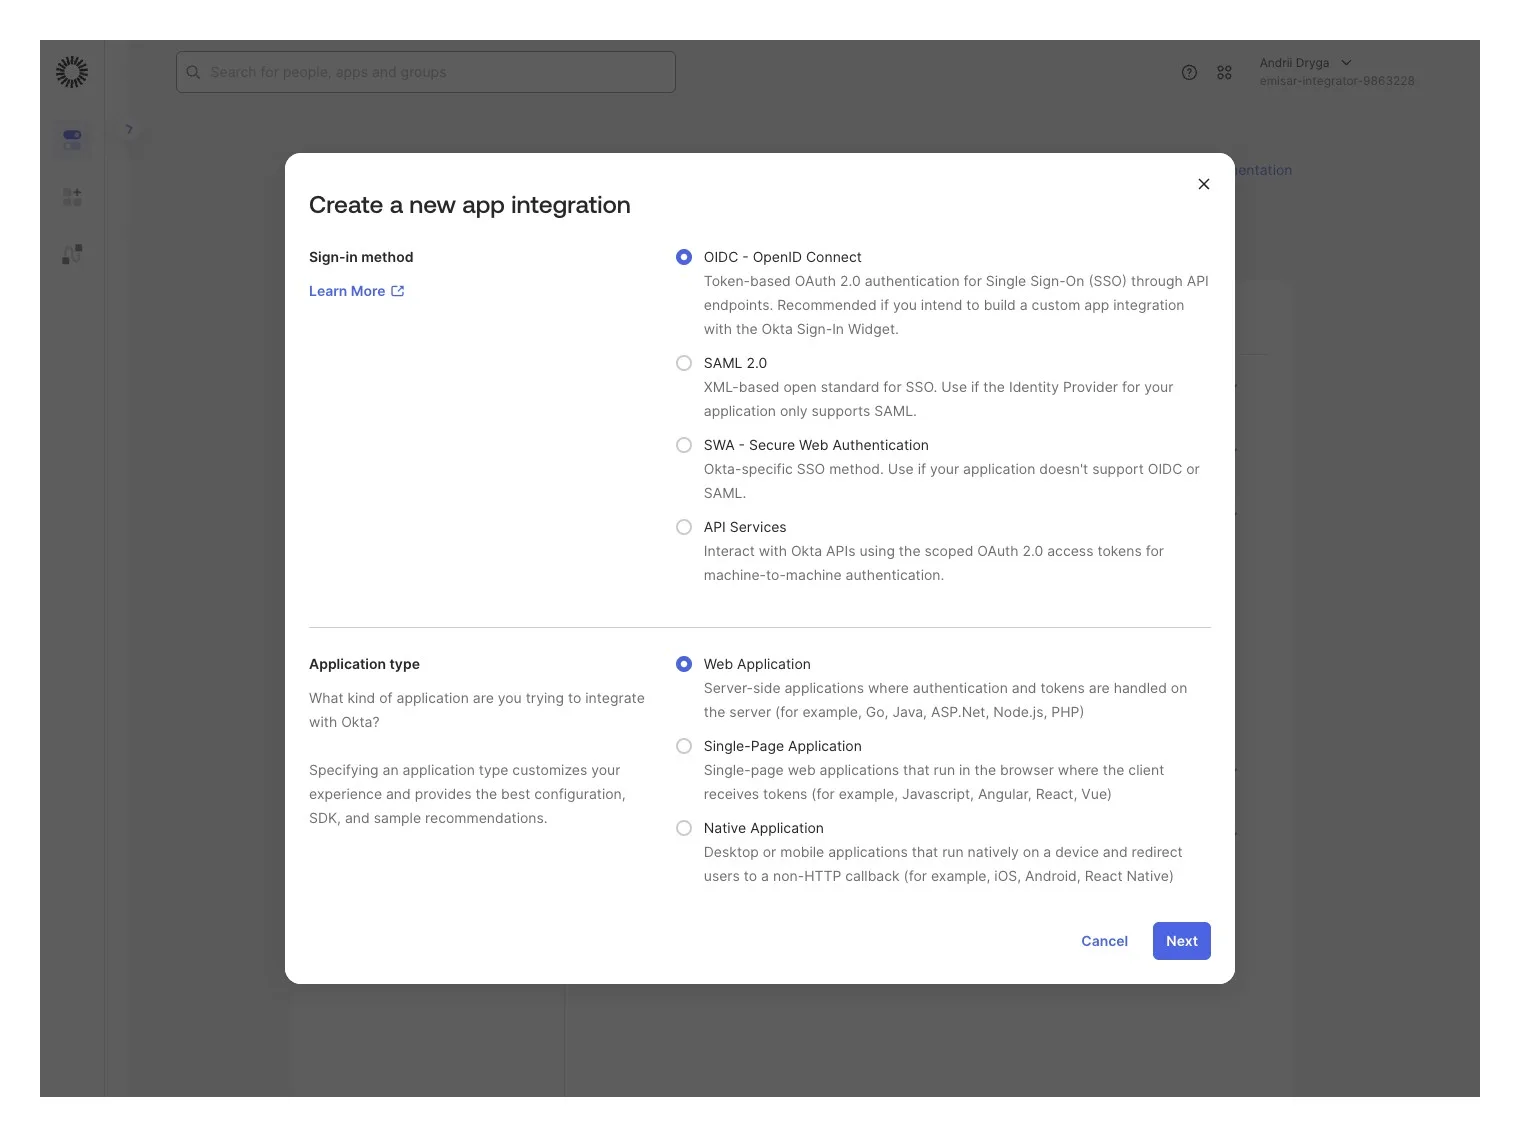
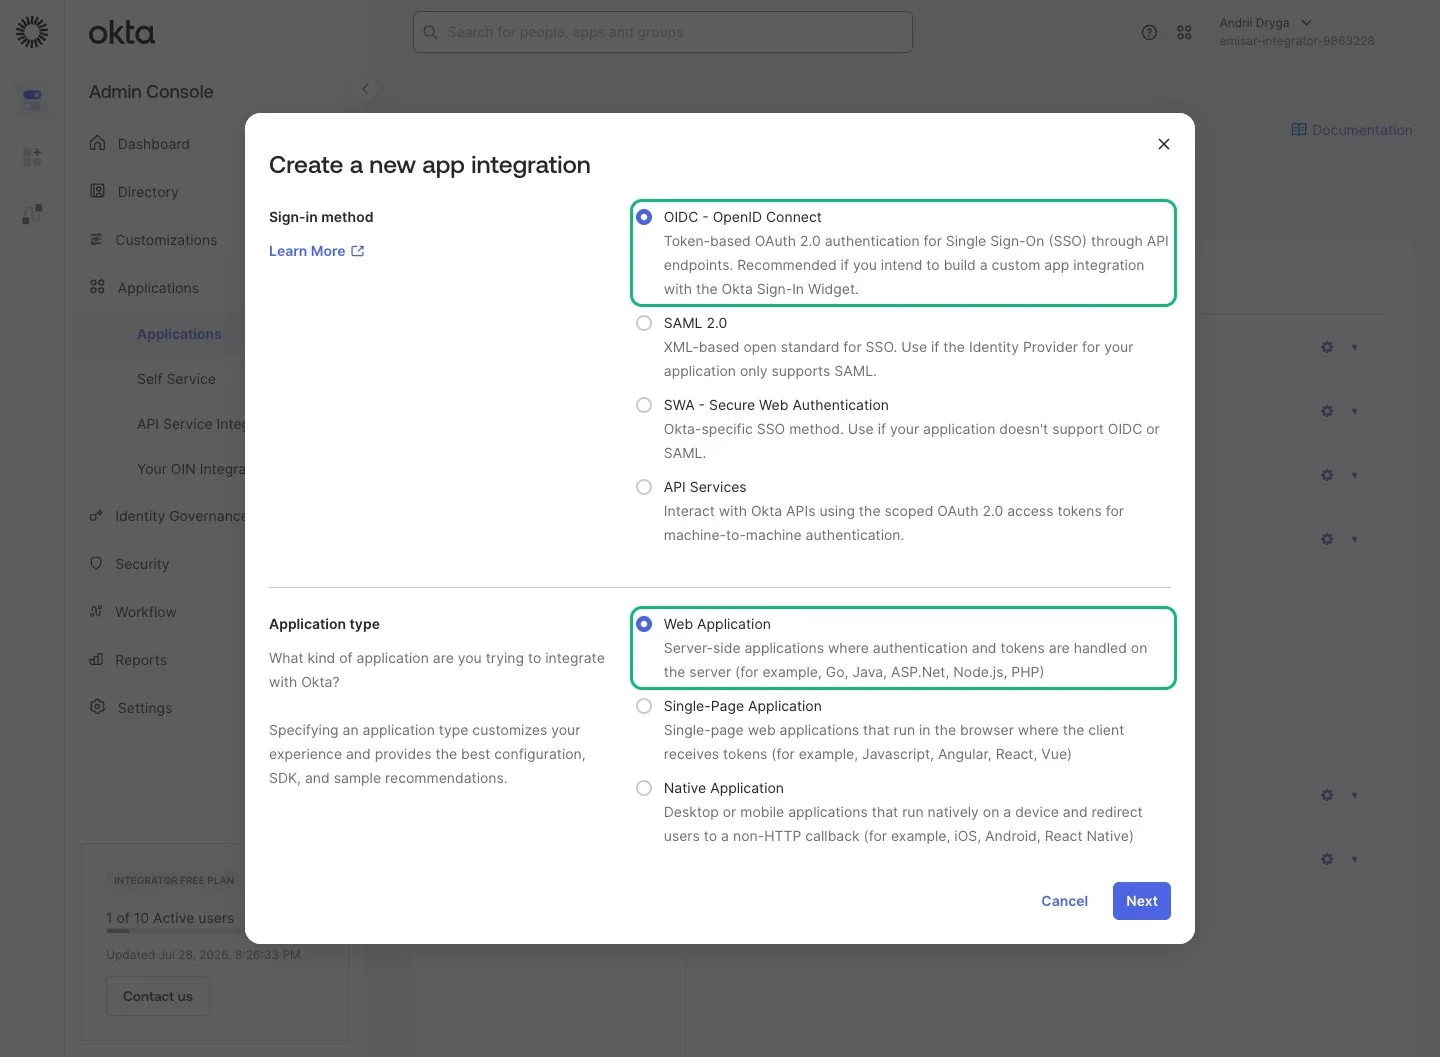
Outline what each Okta OIDC step is actually about
The three OIDC screenshots had no highlights at all. The right options
were selected, but nothing told the reader where to look on a dialog of
eight near-identical rows or a form of a dozen fields.

Each shot now boxes the whole labelled area its step talks about, not the
label: the chosen option together with its help text, the Grant type
block, the redirect row including the field it fills, the Client ID with
its description, and the secrets table. The settings between the last two
— Client authentication and PKCE — stay deliberately outside both boxes,
because that step tells the reader to leave them alone.

The flow also stops littering the org. It used to press Save, minting
another "emisar" integration on every capture run; nothing in these three
shots needs a freshly created app, so it Cancels and takes the
credentials shot from the app that already exists.

Three bugs found by looking at the renders rather than trusting a true:
the redirect outline wrapped the whole page because an <input> value is
not in textContent and the climb never matched (now "Add URI"); both
credentials highlights ran while the page was still painting and returned
false against a screenshot that looked merely un-highlighted (now gated
on waitForText, and a miss is an error); and the secrets box swallowed
the two settings above it (now anchored inside the block).

Adds -flow, because OKTA_FLOW is read from the secrets file and exporting
it in the shell silently took the other branch.
[…]

diff --git a/tools/cmd/okta-capture/main.go b/tools/cmd/okta-capture/main.go
@@ -87,11 +87,14 @@ func submitPasscode(code string) string {
 }
 
 func main() {
-	var secretsPath, outDir, only string
+	var secretsPath, outDir, only, flow string
 	var headless bool
 	flag.StringVar(&secretsPath, "secrets", "portal/.agent/secrets/okta-integrator.env", "creds env file")
 	flag.StringVar(&outDir, "out", "", "directory for captured PNGs")
 	flag.StringVar(&only, "only", "", "comma-separated screen names (default: all)")
+	// The flow otherwise comes from OKTA_FLOW in the secrets FILE, so exporting it
+	// in the shell silently did nothing and the run took the other branch.
+	flag.StringVar(&flow, "flow", "", `which walkthrough to capture ("oidc"; default: provisioning)`)
 	flag.BoolVar(&headless, "headless", true, "run Chrome headless")
 	flag.Parse()
 
@@ -102,6 +105,9 @@ func main() {
 	env, err := readEnv(secretsPath)
 	if err != nil {
 		fail(err)
+	}
+	if flow != "" {
+		env["OKTA_FLOW"] = flow
 	}
 	if err := run(env, outDir, only, headless); err != nil {
 		fail(err)
@@ -974,6 +980,79 @@ func tickEnableAPIIntegration(ctx context.Context) error {
 // oidcFlow captures the sign-in half: a confidential OIDC web app whose only
 // redirect URI is emisar's callback. Separate from the SCIM app by necessity —
 // Okta won't put provisioning on an OIDC integration.
+// oidcCredentialsShot photographs the two values the operator carries back to
+// emisar, on the OIDC app that is already there. Kept separate from the creation
+// walkthrough above precisely so the walkthrough can cancel: nothing in this
+// capture needs a freshly minted app, and minting one per run littered the org.
+func oidcCredentialsShot(
+	ctx context.Context,
+	env map[string]string,
+	shoot func(string) error,
+	settle func(int) error,
+) error {
+	if err := chromedp.Run(ctx, chromedp.Navigate(env["OKTA_ADMIN_URL"]+"/admin/apps/active")); err != nil {
+		return err
+	}
+	if err := settle(8); err != nil {
+		return err
+	}
+	if err := clearMFA(ctx, env); err != nil {
+		return err
+	}
+	// Wait for the list to paint before clicking into it — the click otherwise
+	// lands on nothing and the failure only surfaces two steps later.
+	listed, err := waitForText(ctx, "emisar", 10)
+	if err != nil {
+		return err
+	}
+	if !listed {
+		_ = reportPage(ctx)
+		return fmt.Errorf("the applications list never rendered")
+	}
+	// The OIDC app is named "emisar"; the SCIM one is "SCIM 2.0 Test App (Header
+	// Auth)", so an exact-text match cannot pick the wrong one.
+	opened, err := clickText(ctx, "emisar")
+	if err != nil {
+		return err
+	}
+	if !opened {
+		_ = reportPage(ctx)
+		return fmt.Errorf("no OIDC app named %q in the applications list", "emisar")
+	}
+	if err := settle(8); err != nil {
+		return err
+	}
+	if err := clearMFA(ctx, env); err != nil {
+		return err
+	}
+	// Wait for the card, do not guess at a settle: the first run highlighted
+	// nothing because both lookups ran while the app page was still painting,
+	// then the screenshot caught it fully loaded and looked simply un-highlighted.
+	shown, err := waitForText(ctx, "Client Credentials", 10)
+	if err != nil {
+		return err
+	}
+	if !shown {
+		return fmt.Errorf("the app's Client Credentials card never rendered")
+	}
+	// Box what the step says to copy — the id with its help text, and the secrets
+	// table — rather than the whole Client Credentials card, which would swallow
+	// the settings the reader must NOT touch.
+	if err := highlightGroup(ctx, "Client ID", "required for all"); err != nil {
+		return err
+	}
+	// Anchor INSIDE the secrets block, not on its heading: climbing from the
+	// heading reached a container that also held Client authentication and PKCE —
+	// the two settings this step tells the reader to leave alone.
+	if err := highlightGroup(ctx, "Generate new secret", "Creation date"); err != nil {
+		return err
+	}
+	if err := shoot("oidc-04-client-credentials"); err != nil {
+		return err
+	}
+	return reportPage(ctx)
+}
+
 func oidcFlow(
 	ctx context.Context,
 	env map[string]string,
@@ -1004,7 +1083,15 @@ func oidcFlow(
 		return err
 	}
 	// Shot AFTER both radios are set — a blank dialog doesn't show the reader
-	// which options to pick, which is the whole point of this screen.
+	// which options to pick, which is the whole point of this screen. Box each
+	// chosen option TOGETHER WITH its help text: the radio label alone is a
+	// hairline in a dialog of eight near-identical rows.
+	if err := highlightGroup(ctx, "OIDC - OpenID Connect", "Okta Sign-In Widget"); err != nil {
+		return err
+	}
+	if err := highlightGroup(ctx, "Web Application", "Node.js, PHP"); err != nil {
+		return err
+	}
 	if err := shoot("oidc-01-create-dialog"); err != nil {
 		return err
 	}
@@ -1040,23 +1127,36 @@ func oidcFlow(
 	if err := settle(2); err != nil {
 		return err
 	}
-	// Frame the shot on the redirect URIs — the thing this step is about.
+	// Frame the shot on the redirect URIs — the thing this step is about — and
+	// box BOTH things the step's prose asks for: the grant type it leaves alone
+	// and the callback it fills in. Each box takes the whole labelled row, so it
+	// frames the area to look at instead of sitting on top of the words.
 	if err := scrollToText(ctx, "Sign-in redirect URIs"); err != nil {
+		return err
+	}
+	if err := highlightGroup(ctx, "Authorization Code", "Grant type"); err != nil {
+		return err
+	}
+	// Match on "Add URI", not the URL: the callback lives in an <input value=…>,
+	// which is NOT part of textContent, so climbing for it never matched and the
+	// outline ended up around a page-level container. "Add URI" is real text in
+	// the same row's right-hand column.
+	if err := highlightGroup(ctx, "Sign-in redirect URIs", "Add URI"); err != nil {
 		return err
 	}
 	if err := shoot("oidc-03-new-web-app"); err != nil {
 		return err
 	}
-	if err := step("Save"); err != nil {
+	// CANCEL, not Save. This form is only reachable while creating an app, so
+	// saving it would mint a duplicate "emisar" integration on every capture run
+	// — the credentials shot below comes from the app that already exists.
+	if err := step("Cancel"); err != nil {
 		return err
 	}
-	if err := settle(8); err != nil {
+	if err := settle(5); err != nil {
 		return err
 	}
-	if err := shoot("oidc-04-client-credentials"); err != nil {
-		return err
-	}
-	return reportPage(ctx)
+	return oidcCredentialsShot(ctx, env, shoot, settle)
 }
 
 // typeRealKeysSelector types into the first match for a CSS selector, for fields
